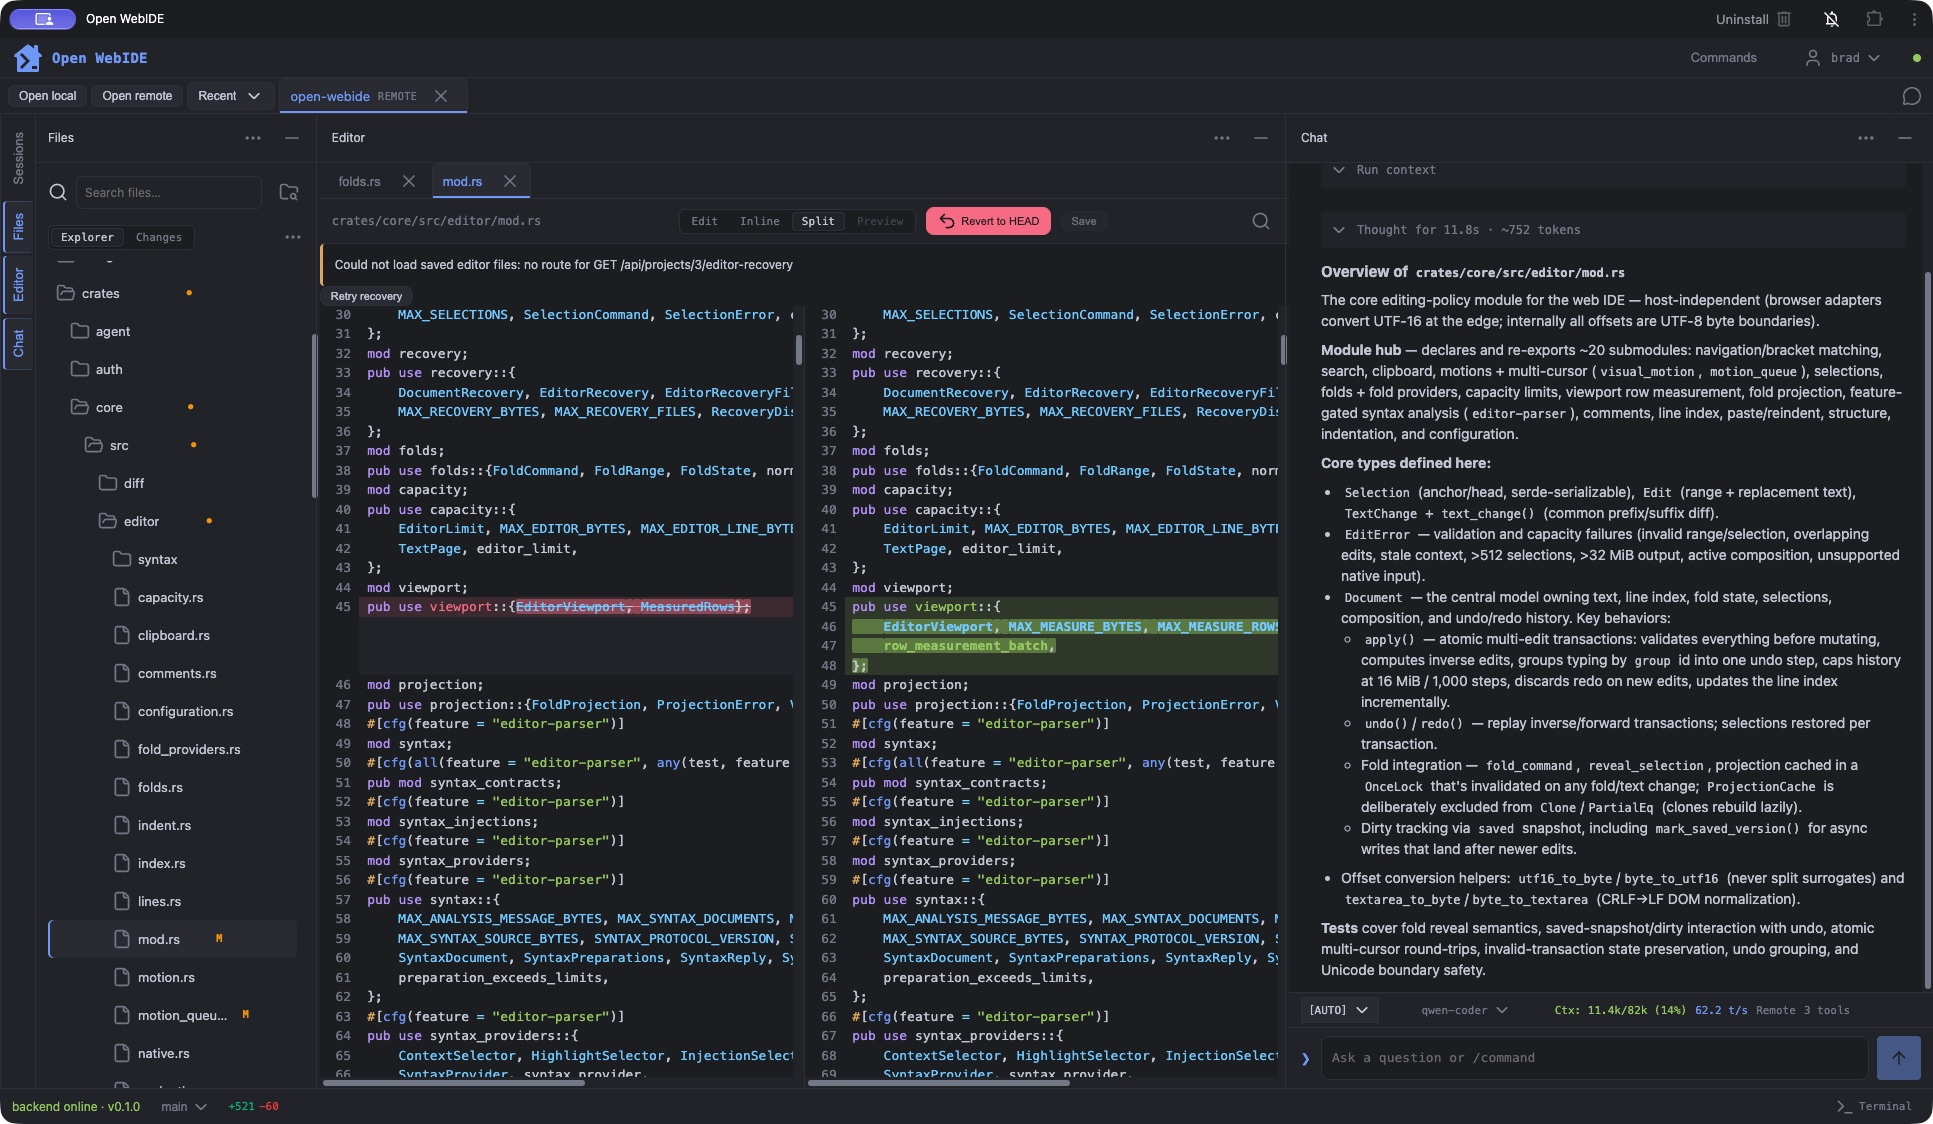
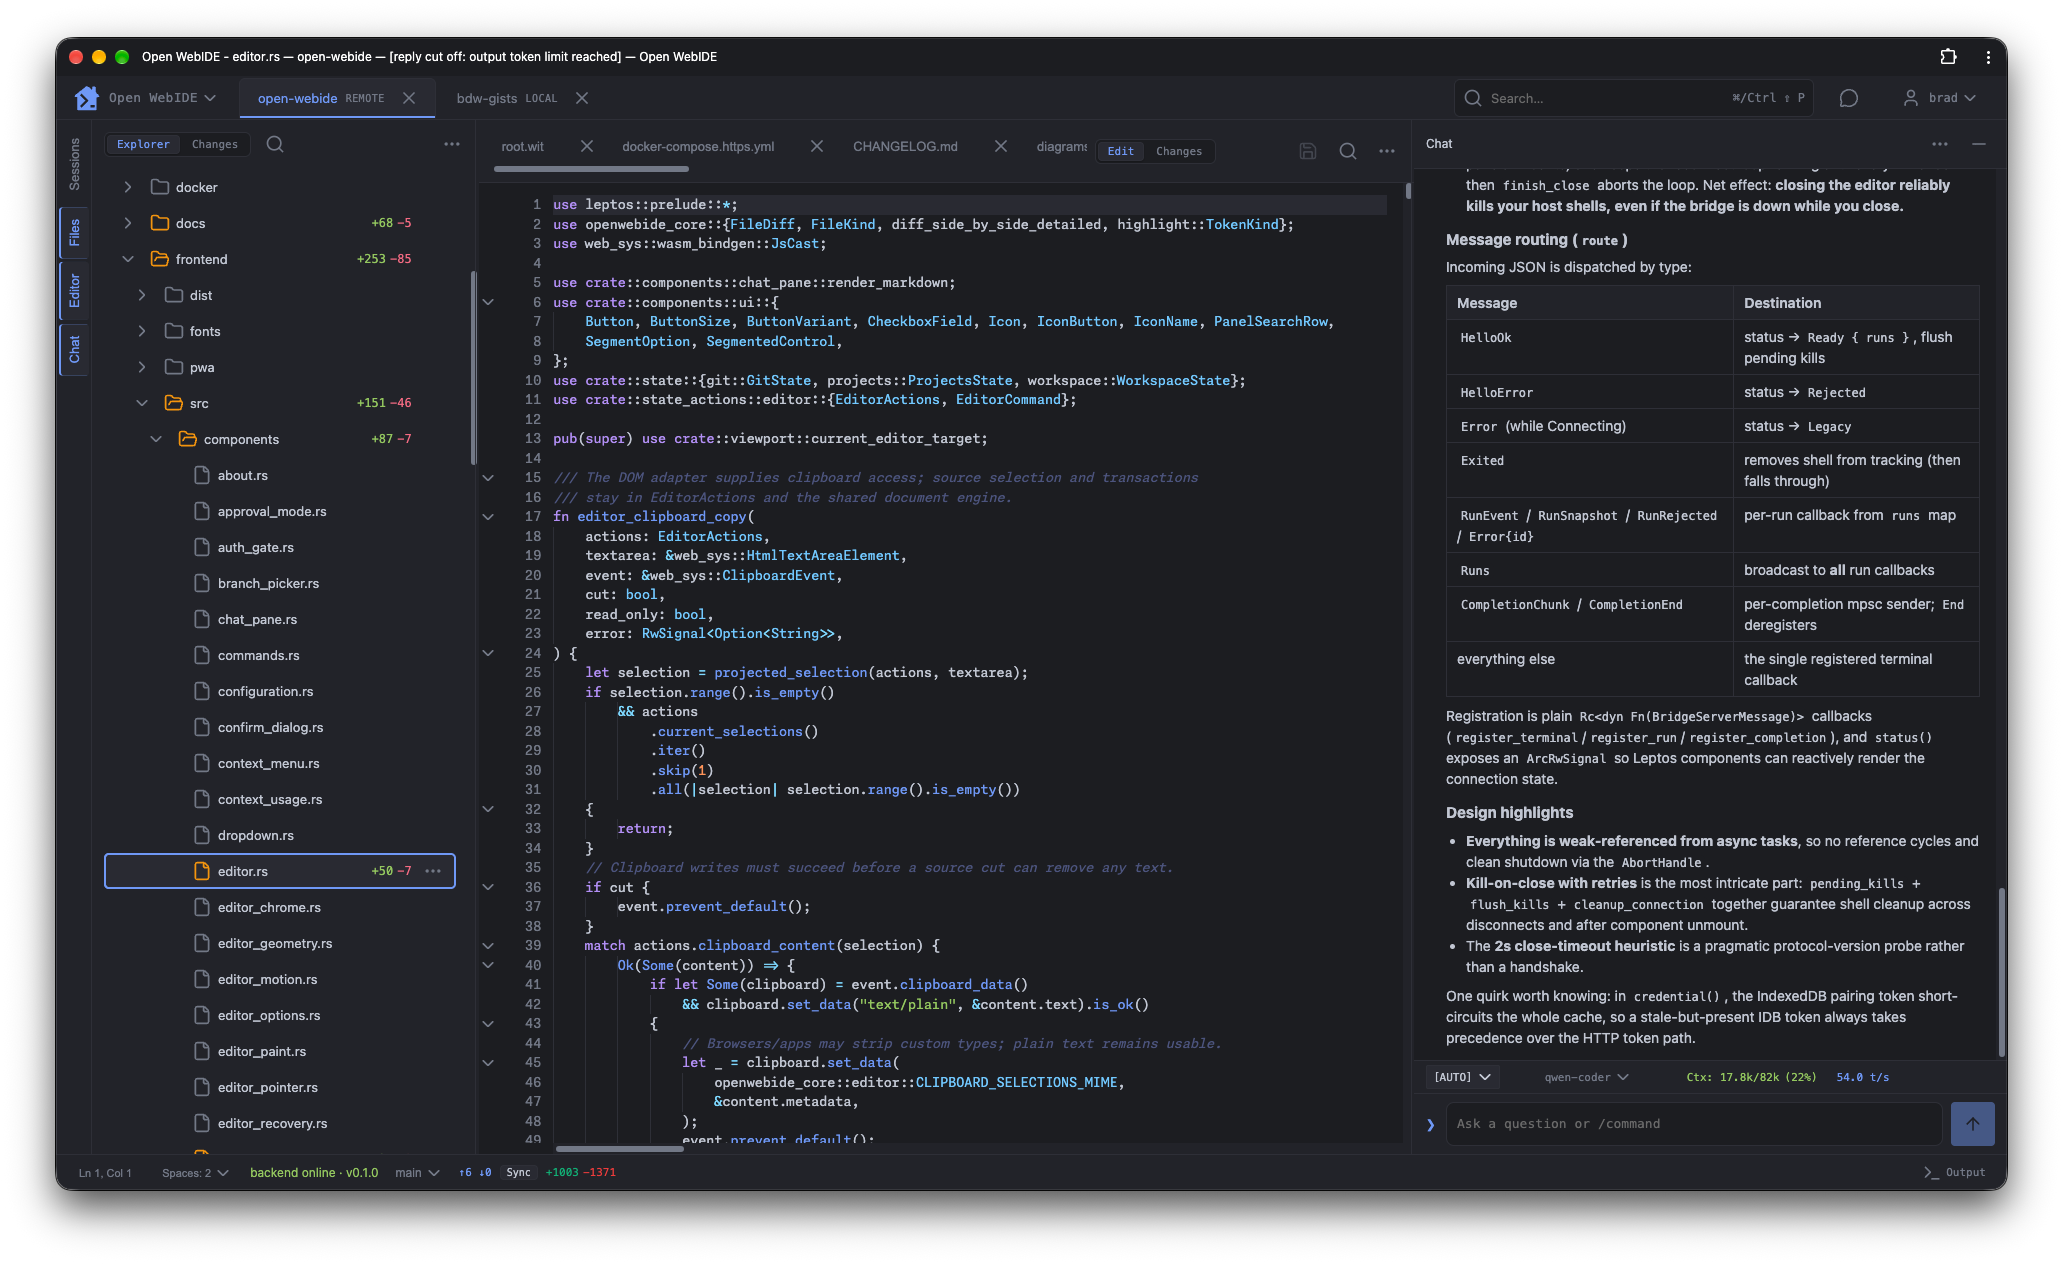
Update website screenshot to current app UI

Changed region(s): [[0.0, 0.0, 1.0, 1.0], [0.4966, 0.0934, 0.5277, 0.1246], [0.4346, 0.0934, 0.4656, 0.1246]]

diff --git a/site/index.md b/site/index.md
@@ -23,9 +23,9 @@ for help, review its changes, and work with Git and a terminal—all in one plac
 
 <figure class="app-screenshot" markdown="1">
 
-[![Open WebIDE running as an installed PWA, with a project file tree, split code diff, and model chat](docs/assets/openwebide-pwa.png)](docs/assets/openwebide-pwa.png)
+[![Open WebIDE running as an installed PWA, with Git file-change counts, a syntax-highlighted editor, and model chat](docs/assets/openwebide-pwa.png)](docs/assets/openwebide-pwa.png)
 
-<figcaption>Open WebIDE running as an installed PWA. Review code changes alongside your model conversation.</figcaption>
+<figcaption>Open WebIDE running as an installed PWA. Edit code and track Git changes alongside your model conversation.</figcaption>
 
 </figure>
 
